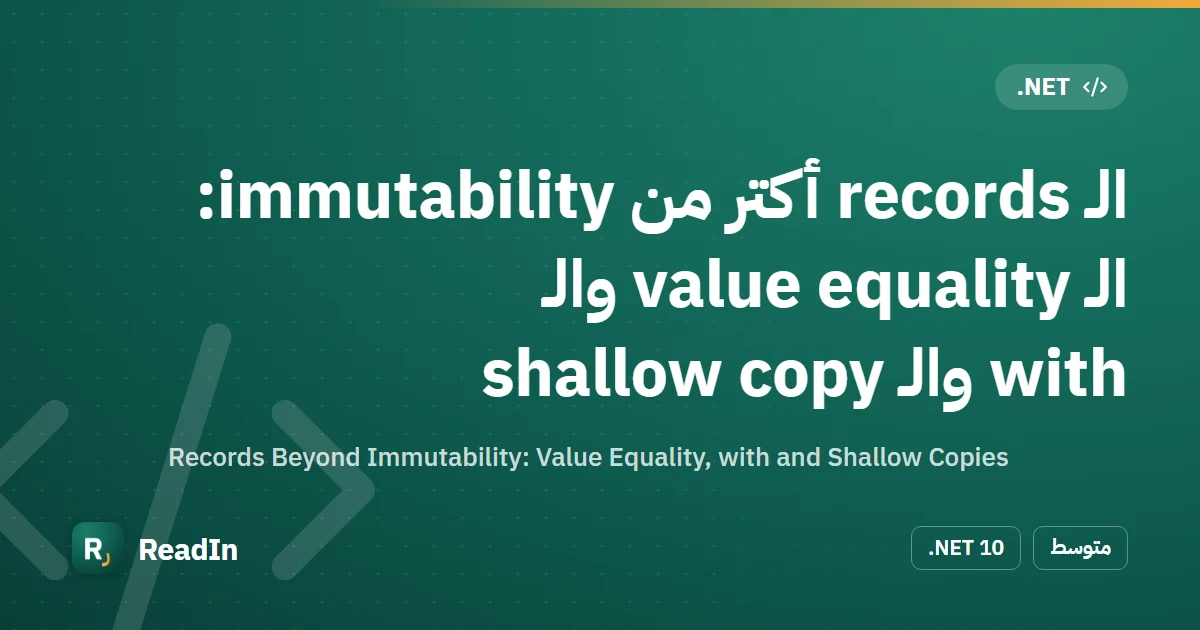
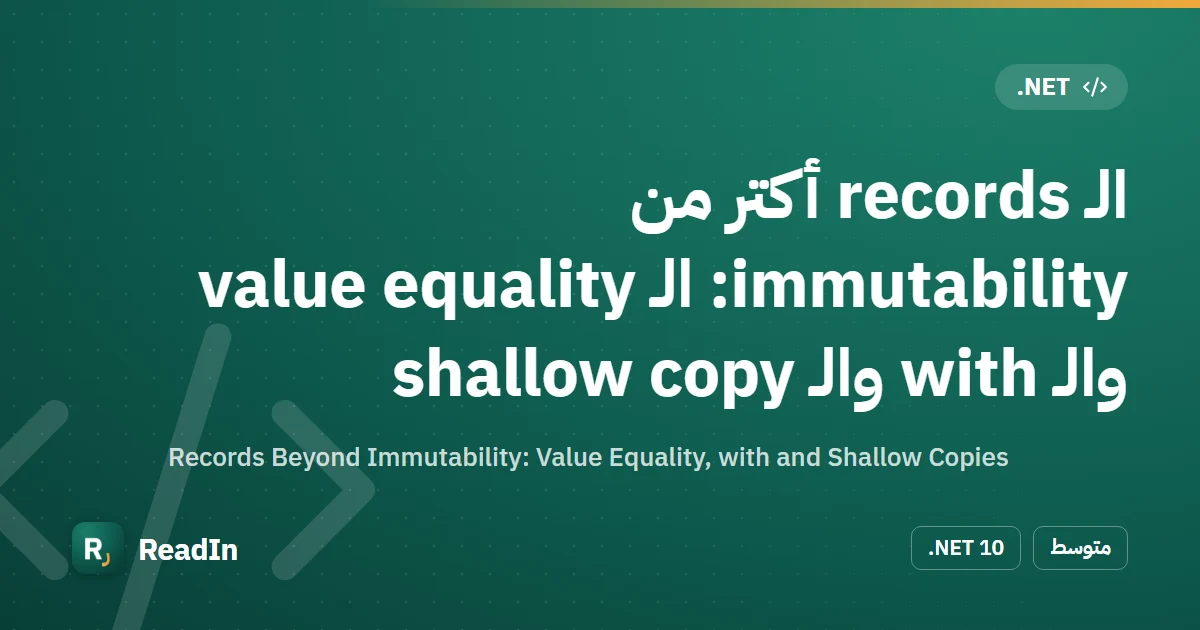
fix(covers): keep "الـ" on the same line as the English term after it
Arabic titles could end a line on a bare "الـ" (or "لـ", "والـ") with the
English word on the next line. The gap after a tatweel prefix before an
isolated English run is now non-breaking. Seven committed covers re-rendered.

Changed region(s): [[0.1542, 0.3921, 0.9558, 0.5127], [0.3083, 0.5429, 0.9558, 0.6635], [0.1542, 0.2714, 0.5242, 0.3619]]

diff --git a/tools/content-covers/cover.html b/tools/content-covers/cover.html
@@ -73,13 +73,13 @@
 </div>
 <script>
   // Latin runs inside the Arabic title are isolated like in the readers (SPEC §14.2). Short runs ("value types") never
-  // wrap, so a line never ends on half of an English term.
+  // wrap, and neither does the gap after "الـ"/"لـ", so a line never ends on half of an English term or on a bare "الـ".
   const escape = (s) => s.replace(/[&<>"]/g, (c) => ({ "&": "&amp;", "<": "&lt;", ">": "&gt;", '"': "&quot;" })[c]);
   const isolate = (s) => escape(s).replace(/(?:\.|@|#)?[A-Za-z][^-ۿ،؛؟]*/g, (run) => {
     const trimmed = run.replace(/[\s.,:;!?'"-]+$/, "");
     const text = trimmed.length <= 24 ? trimmed.replace(/ /g, "&nbsp;") : trimmed;
     return `<bdi>${text}</bdi>${run.slice(trimmed.length)}`;
-  });
+  }).replace(/ـ (?=<bdi>)/g, "ـ&nbsp;");
 
   window.renderCover = async (d) => {
     const cover = document.getElementById("cover");
